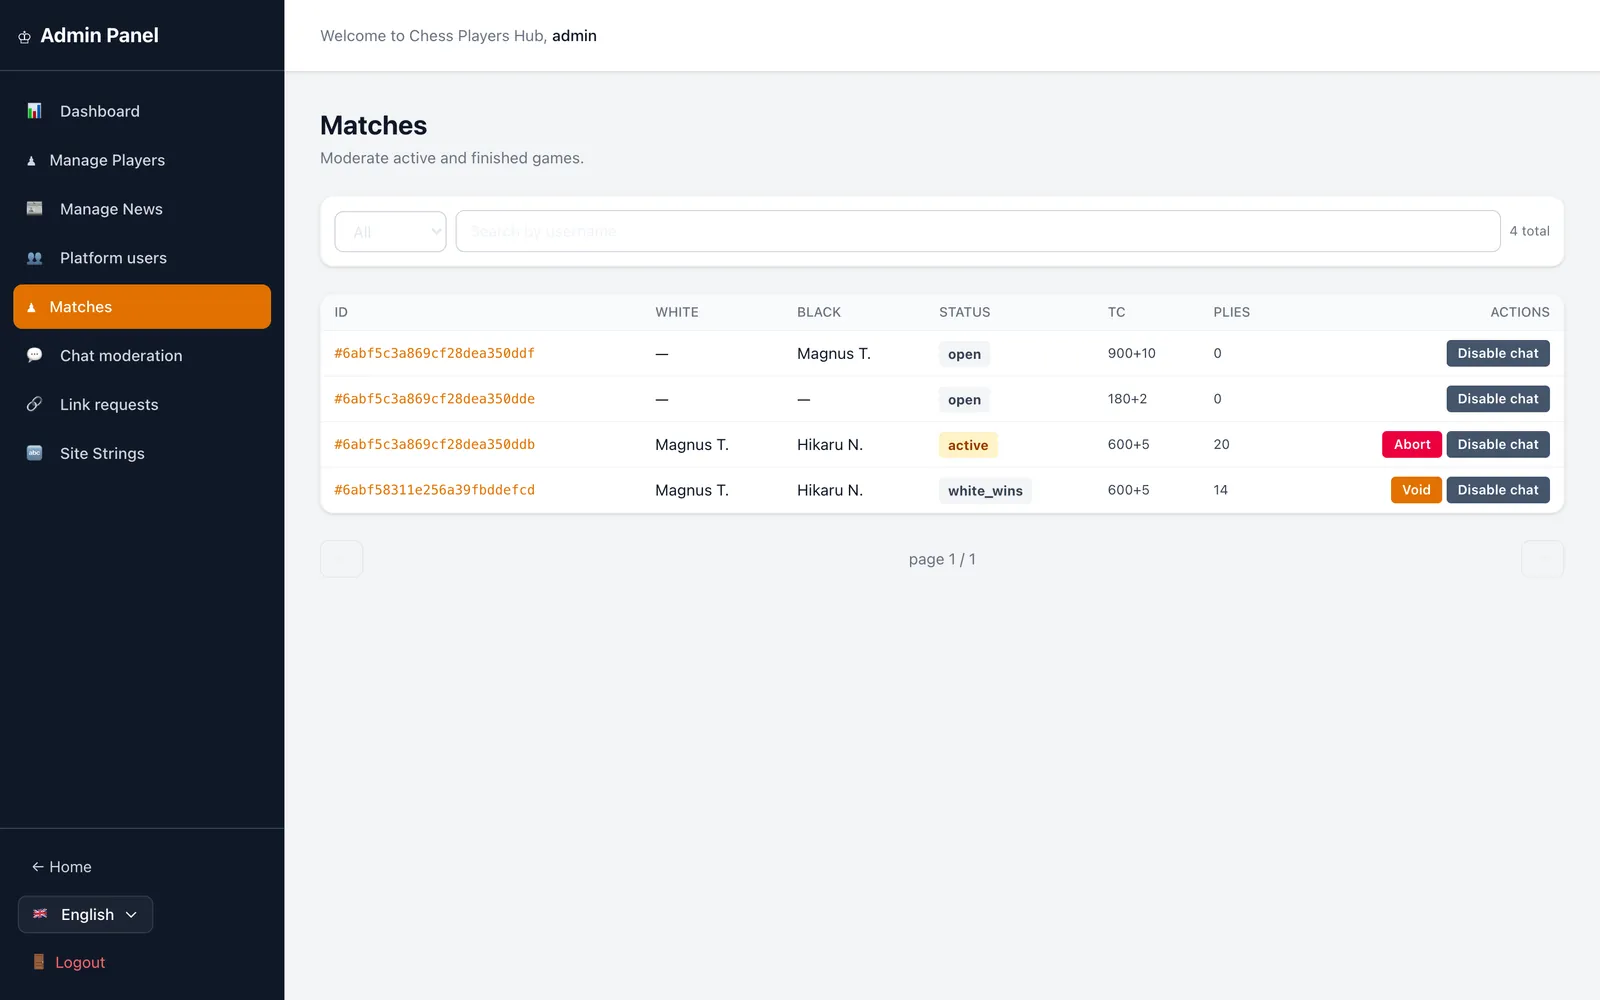
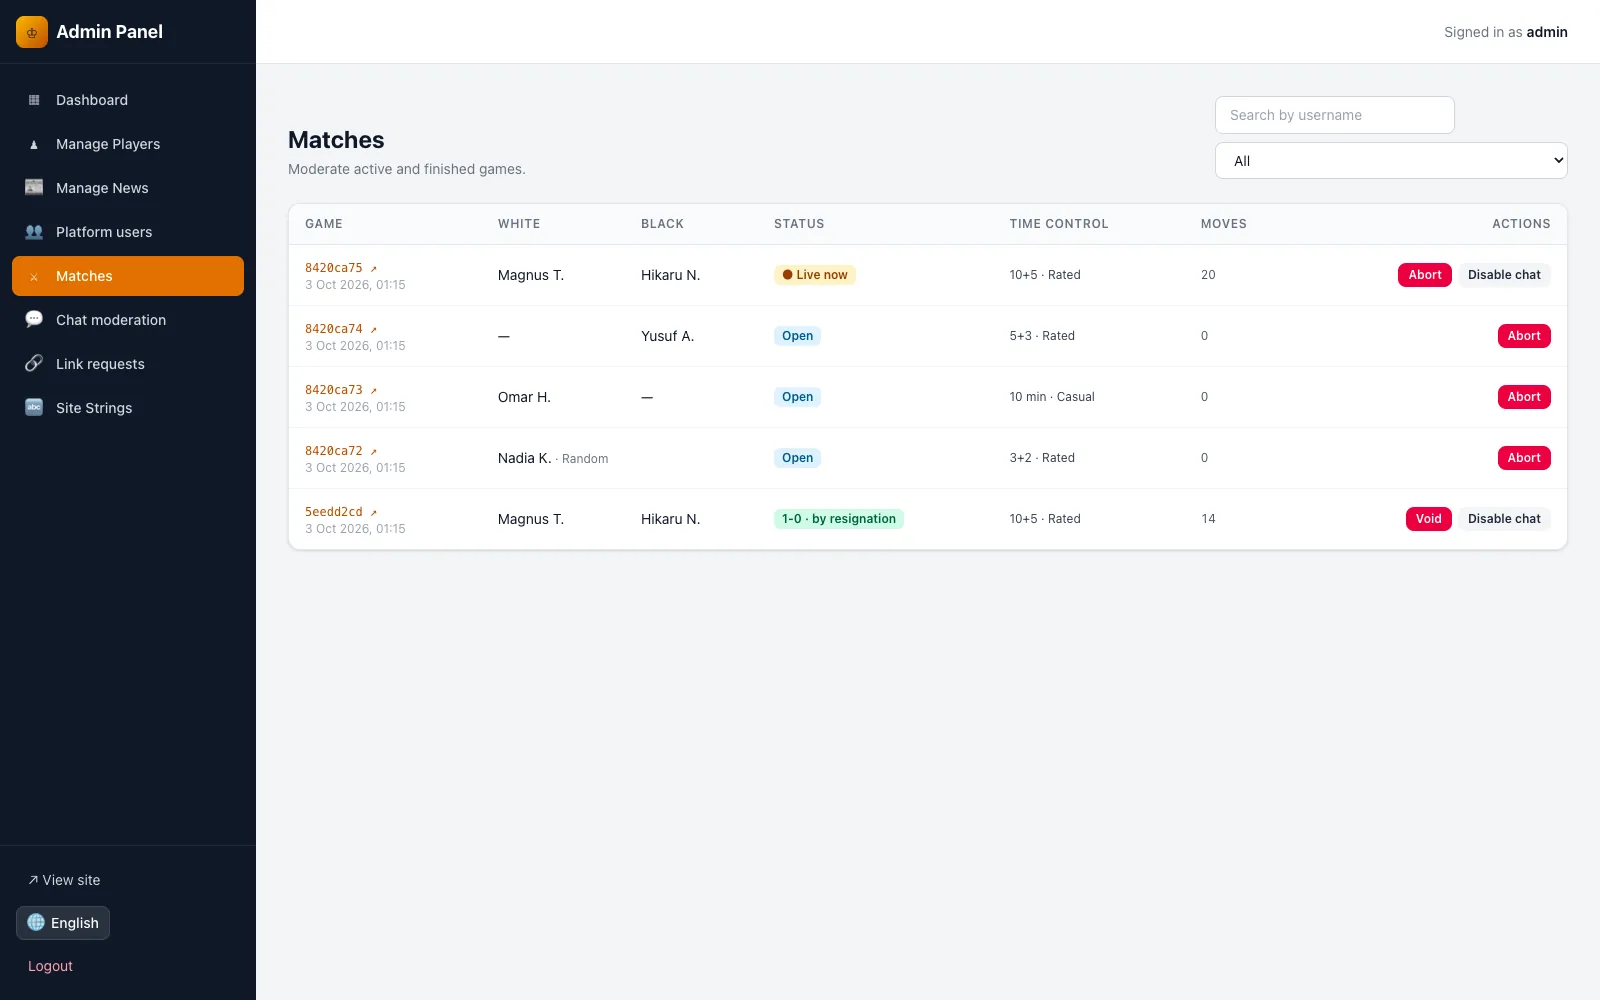
docs: retake the README screenshots from the current UI
The screenshots from #1 showed the earlier UI: the old "Chess Players"
branding, the old lobby and the old game screen. These are 1600x1000
captures of this branch against seeded data plus a few fictional players,
taken with headless Chrome. The Arabic README shows them too, leading with
the Arabic board.

diff --git a/README.ar.md b/README.ar.md
@@ -9,6 +9,13 @@
 > **English:** [README.md](README.md) — الوثيقة الإنجليزية أكثر تفصيلًا، وفيها
 > القائمة الكاملة لمسارات API ومتغيرات البيئة.
 
+![مباراة مباشرة بالعربية من جهة الأسود: الرقعة والساعتان والمحادثة والنقلات](docs/screenshots/game-ar.webp)
+
+| | |
+| --- | --- |
+| ![الصفحة الرئيسية مع الأخبار المميّزة وأفضل اللاعبين](docs/screenshots/home.webp) | ![صفحة اللعب: اقتران سريع حسب نظام الوقت والتحديات المفتوحة](docs/screenshots/lobby.webp) |
+| ![المباراة نفسها من جهة الأبيض](docs/screenshots/game.webp) | ![لوحة التحكم: الإشراف على المباريات](docs/screenshots/admin-matches.webp) |
+
 ---
 
 ## المزايا

diff --git a/README.md b/README.md
@@ -12,7 +12,7 @@ moderate the community.
 
 | | |
 | --- | --- |
-| ![Home page with the featured-news carousel](docs/screenshots/home.webp) | ![Lobby: create a challenge or accept an open one](docs/screenshots/lobby.webp) |
+| ![Home page with the featured-news carousel and top players](docs/screenshots/home.webp) | ![Play: quick pairing by time control, and open challenges](docs/screenshots/lobby.webp) |
 | ![The same game from Black's side, in Arabic](docs/screenshots/game-ar.webp) | ![Admin: moderating matches](docs/screenshots/admin-matches.webp) |
 
 ---
